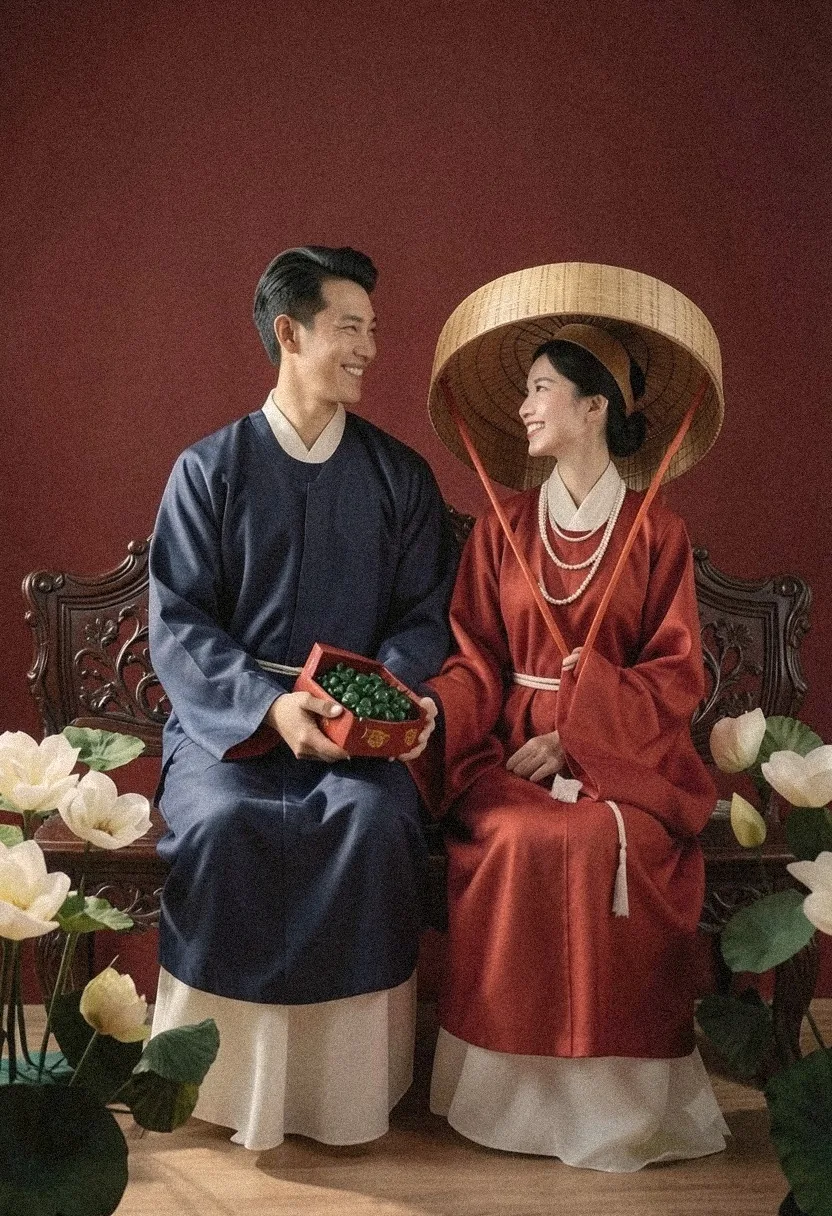
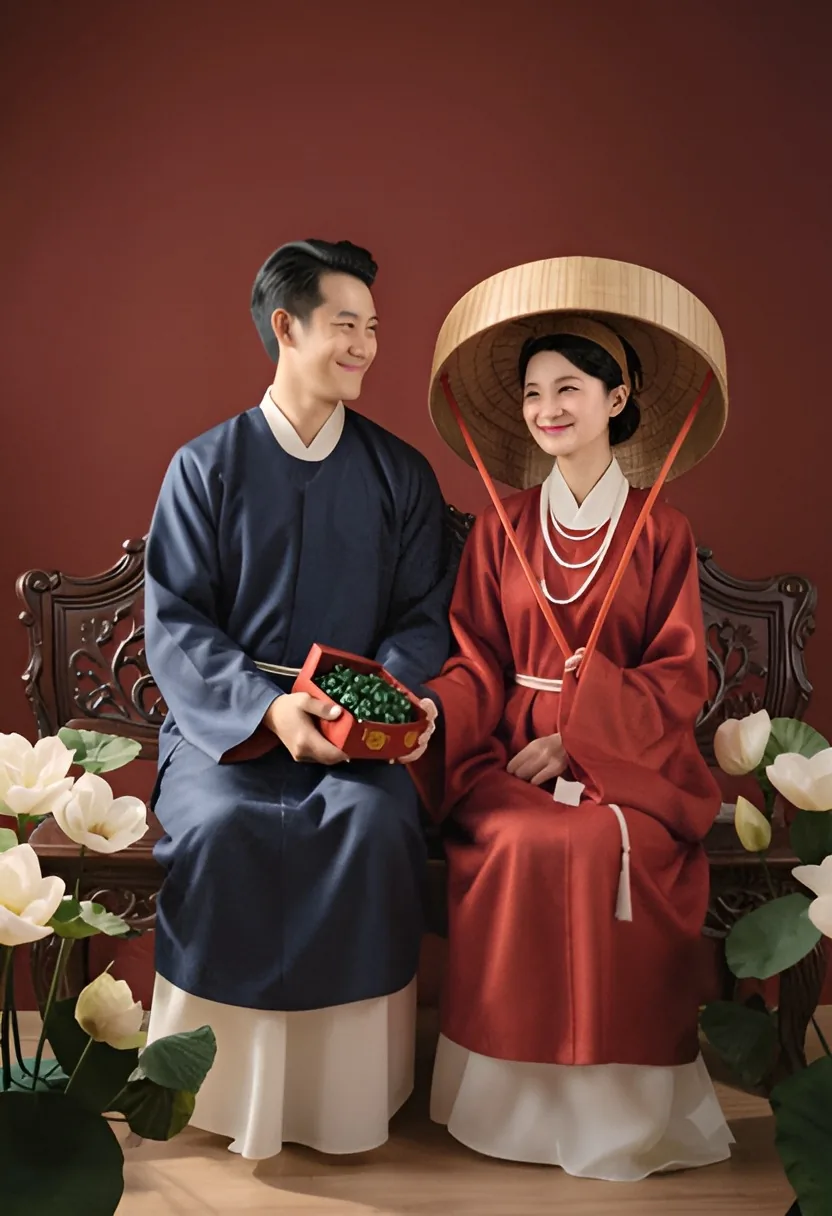
Mẫu 5: sửa biểu cảm 5 ảnh cưới mẫu cho dịu và tự nhiên (không cười toe toét), da và ánh sáng thật hơn
Claude-Session: https://claude.ai/code/session_01V4RDDV9jqM6BBijw6Ese9L

Changed region(s): [[0.0, 0.0312, 1.0, 1.0], [0.9062, 0.9688, 0.9688, 1.0], [0.3438, 0.4375, 0.375, 0.4688]]

diff --git a/docs/CREDITS.md b/docs/CREDITS.md
@@ -136,4 +136,4 @@ Cảnh lối vào qua các vòm hoa `gate-arches.webp`, chùm bóng bay `balloon
 
 ## Mẫu 5 · Trầu cau: ảnh cưới mẫu (`my-wed/src/static/t03/demo/`)
 
-`cover.webp` và `album1-4.webp`: dâu rể mặc cổ phục Việt (áo tấc xanh than, giao lĩnh đỏ, nón quai thao), do AI vẽ (FLUX.2 [klein] 4B, Apache 2.0, Cloudflare Workers AI của chủ repo). Concept theo một ảnh mẫu chủ repo gửi (chỉ lấy trang phục và màu, không lấy dáng hay bố cục); phong cách ảnh phim, hai ảnh được phủ hạt phim cho đồng bộ.
+`cover.webp` và `album1-4.webp`: dâu rể mặc cổ phục Việt (áo tấc xanh than, giao lĩnh đỏ, nón quai thao), do AI vẽ (FLUX.2 [klein] 4B, Apache 2.0, Cloudflare Workers AI của chủ repo). Concept theo một ảnh mẫu chủ repo gửi (chỉ lấy trang phục và màu, không lấy dáng hay bố cục); phong cách ảnh phim, hai ảnh được phủ hạt phim cho đồng bộ. Biểu cảm cả 5 ảnh được sửa lại cho dịu (bỏ kiểu cười toe toét) bằng FLUX.2 [dev] của Black Forest Labs, cũng chạy trên Cloudflare Workers AI.
